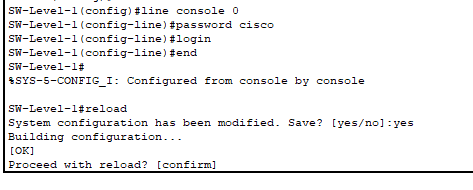
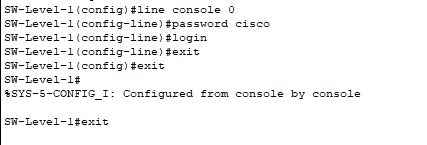
update

Changed region(s): [[0.0, 0.0, 1.0, 0.9379]]

diff --git a/Task 3/Readme.md b/Task 3/Readme.md
@@ -95,3 +95,15 @@
 ---
 
 #### 6. Save your settings to the "permanent memory" of the switch. Use copy running-config startup-config commands. Also command write could be use. How to find out if a configuration is saved?
+
+- If you check the startup-configuration file **show start** it should be empty since we do not save anything. And if we check the running-configuration file by **show run** it will show the password setting and the running config data. And if we restart the device the running config data will be lost.
+
+![](Images/15.png)
+
+- Using **copy run start** will copy the running config data to starting configuration file. Then if we go **show start** it will show the saved data.
+
+![](Images/16.png)
+
+- we can confirm this using the reload command without saving anything. the system should ask for the password again even if we restart the system.
+
+![](Images/17.png)
